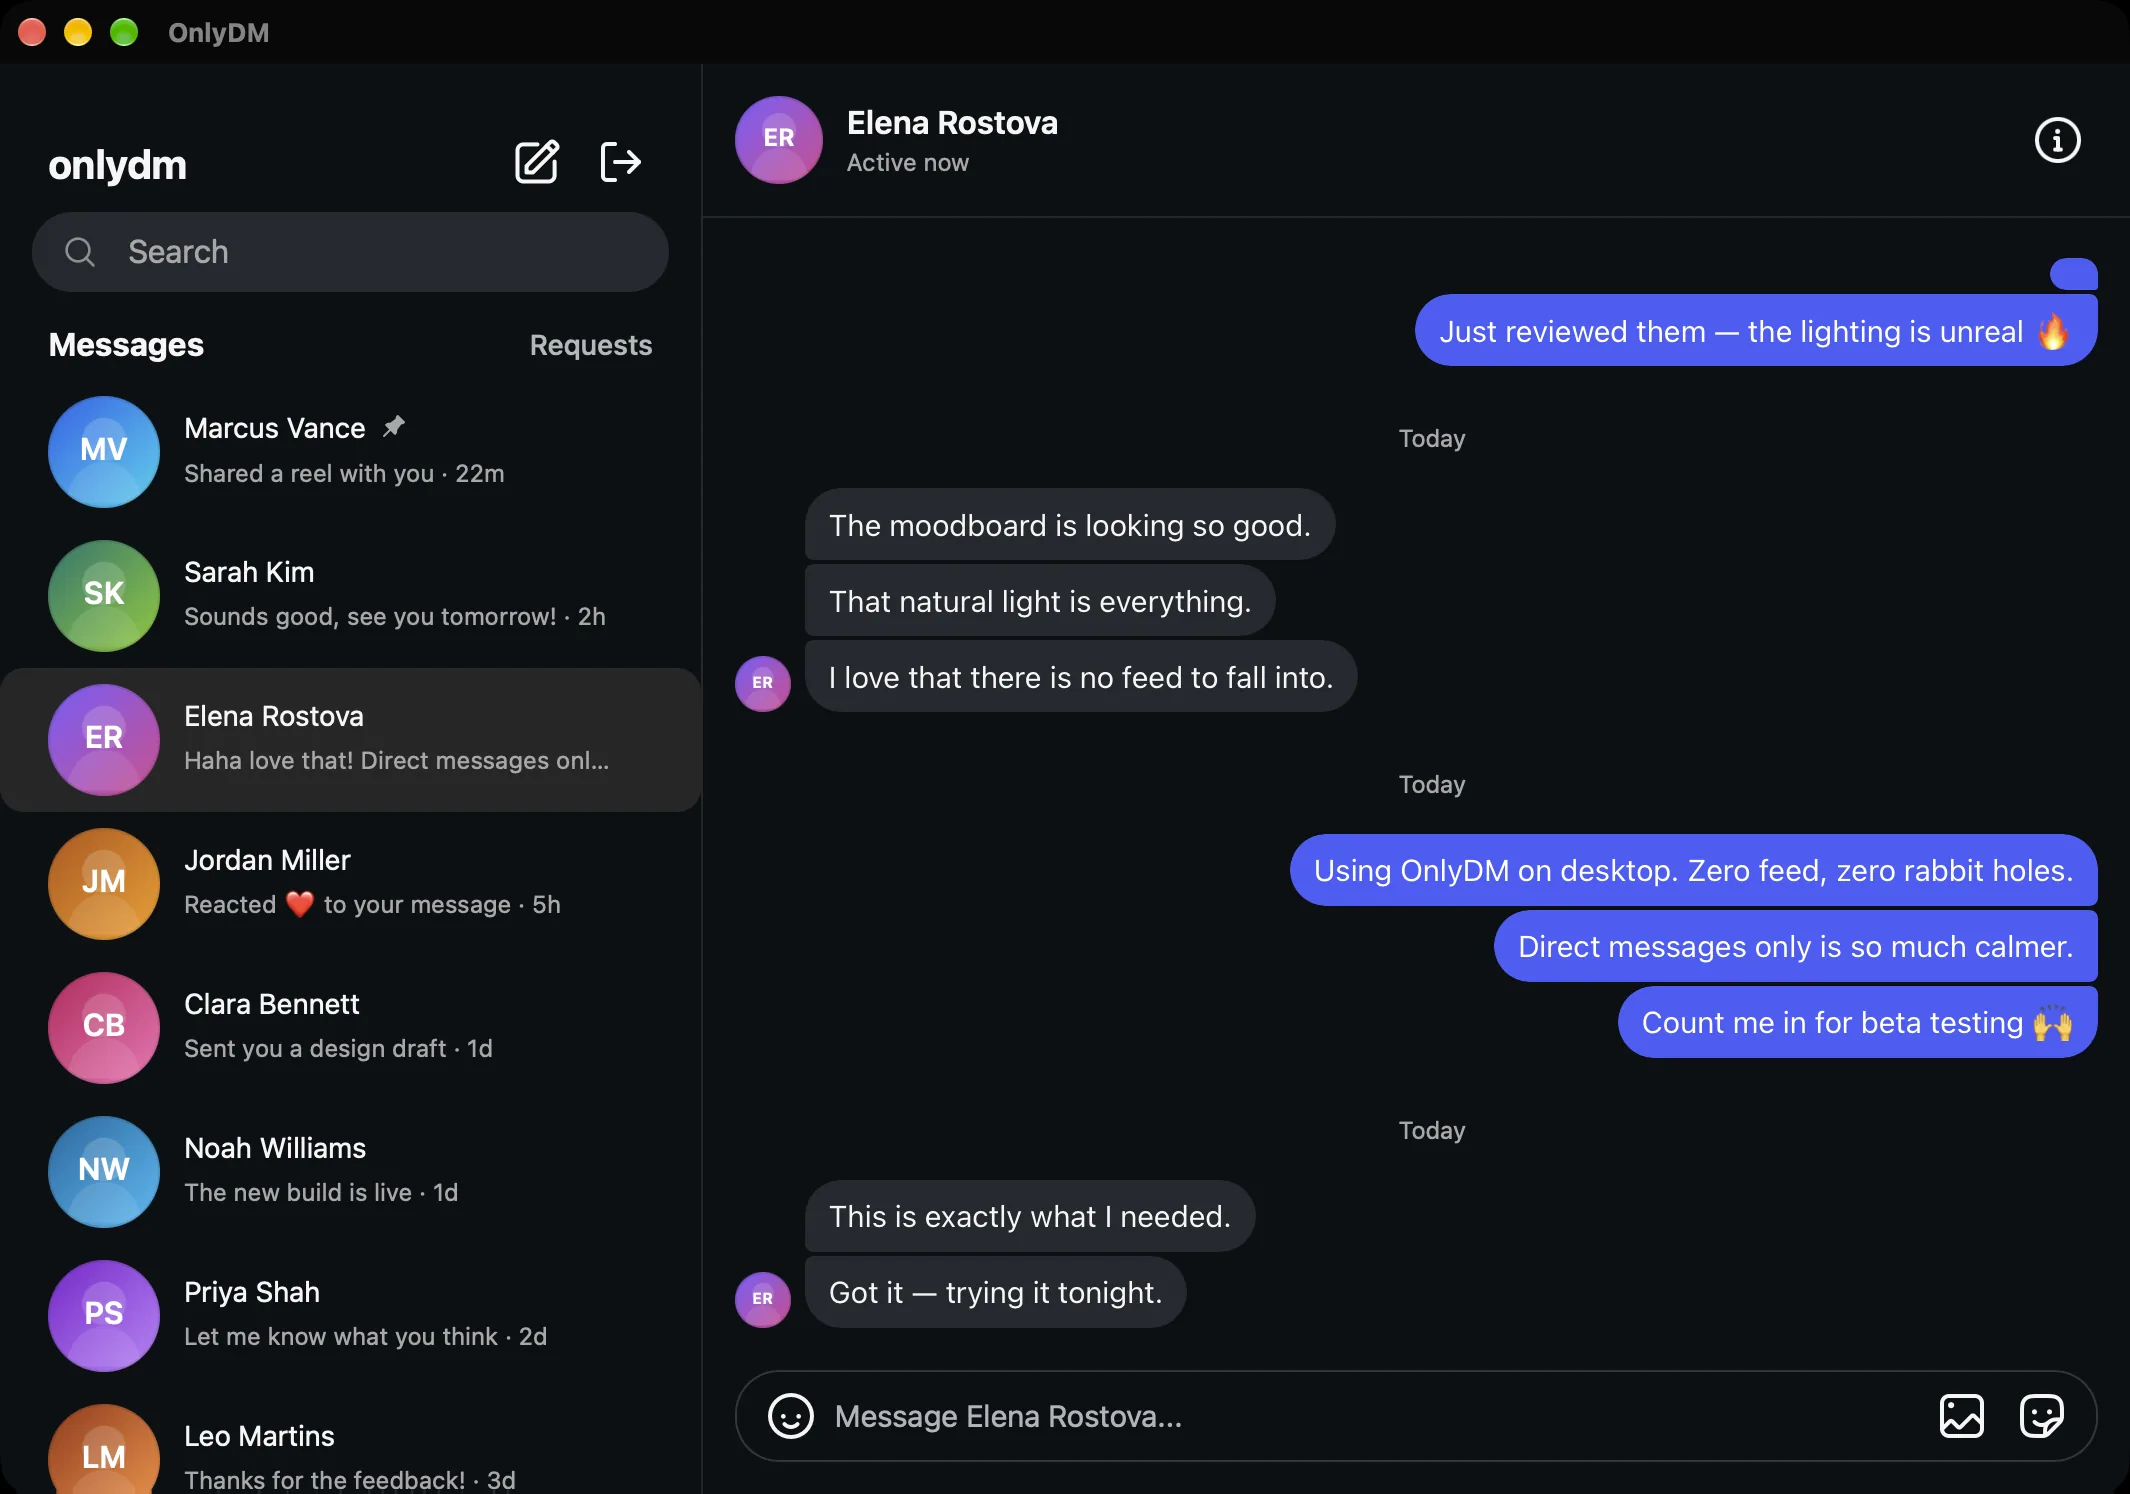
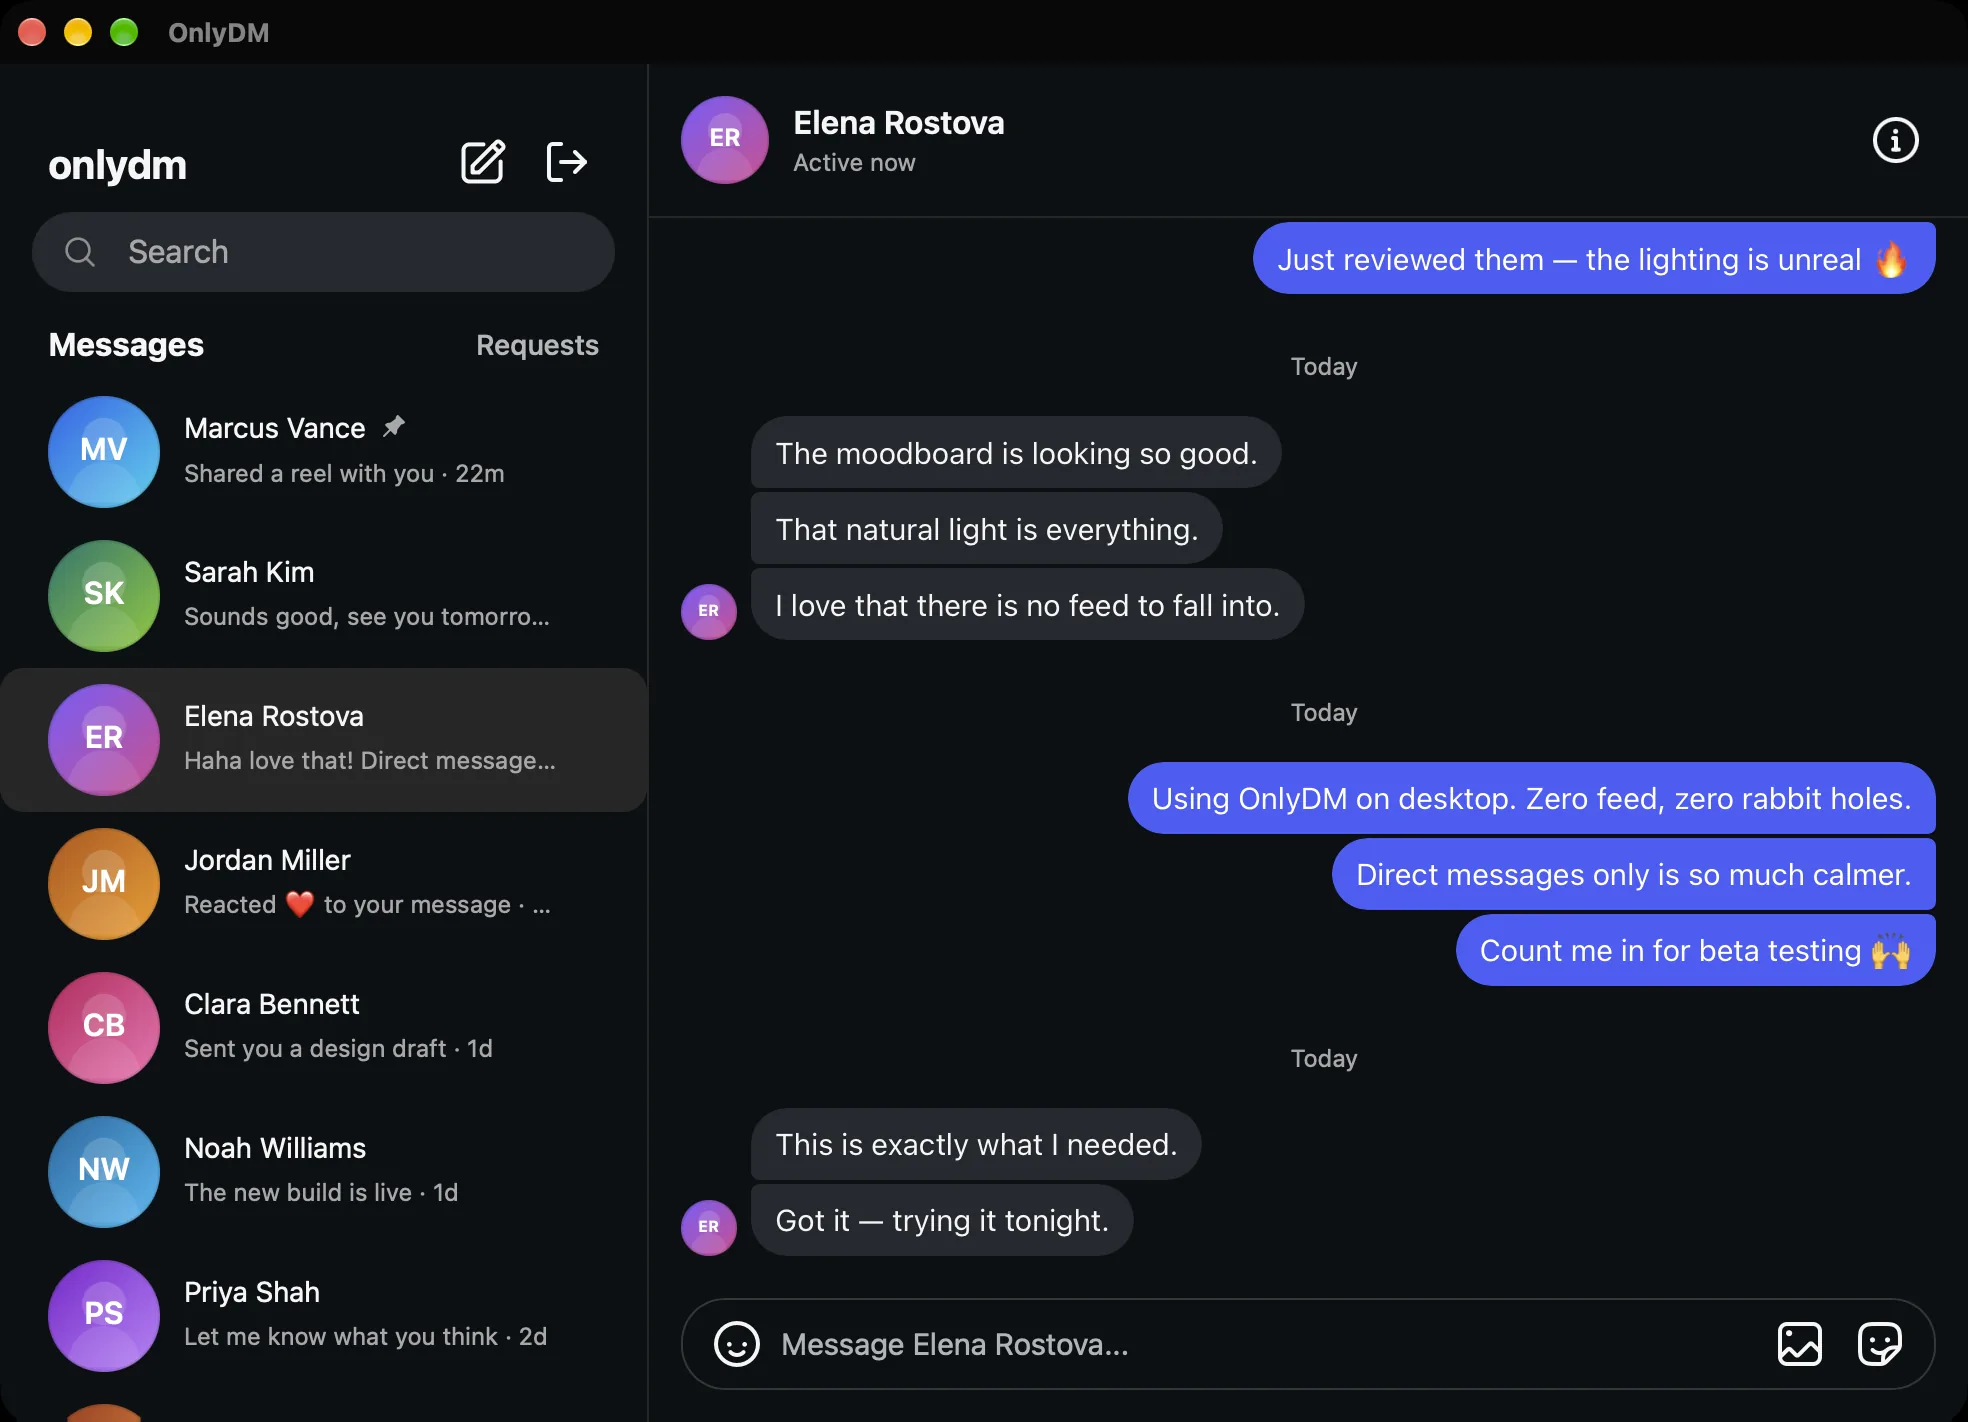
chore(landing): refresh macOS window screenshot
Update the full-window capture to 1968×1422 and keep the landing image dimensions in sync.

diff --git a/landing/index.html b/landing/index.html
@@ -1242,7 +1242,7 @@
         <div class="screenshot-frame">
           <picture>
             <source srcset="assets/screenshot.webp" type="image/webp" />
-            <img src="assets/screenshot.png" width="2130" height="1494" alt="OnlyDM macOS app showing a direct message conversation with sample contacts" class="screenshot-img" decoding="async" />
+            <img src="assets/screenshot.png" width="1968" height="1422" alt="OnlyDM macOS app showing a direct message conversation with sample contacts" class="screenshot-img" decoding="async" />
           </picture>
         </div>
       </div>
